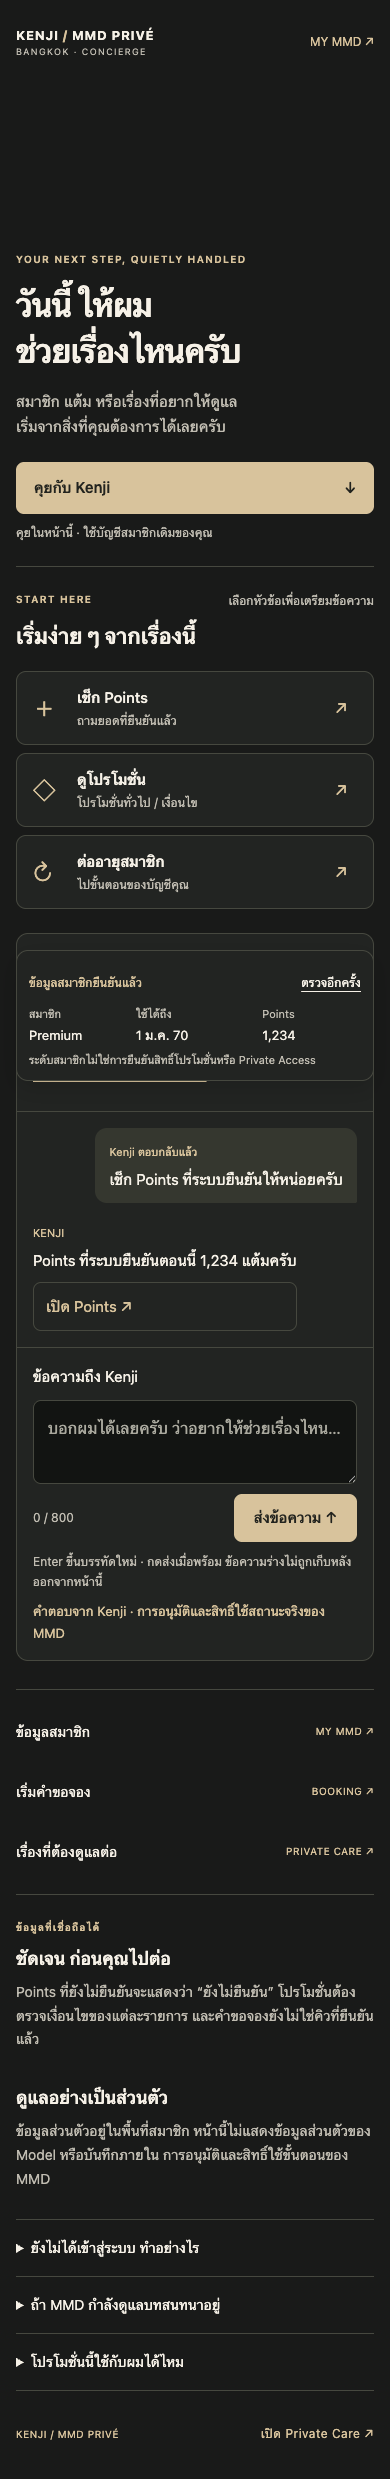
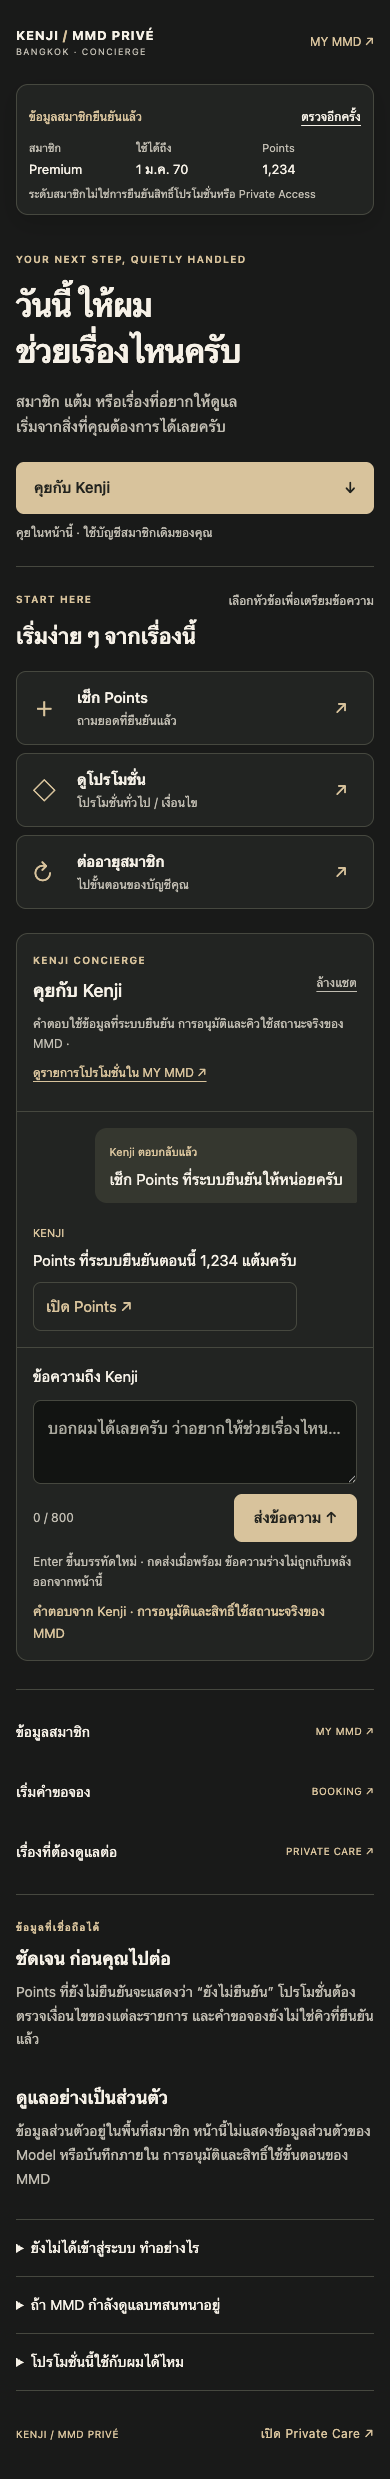
test(kenji): capture sticky summary consistently in screenshots

diff --git a/webflow/concierge/kenji/qa/browser-qa.js b/webflow/concierge/kenji/qa/browser-qa.js
@@ -1,4 +1,5 @@
 async (page) => {
+  const capture=async options=>{await page.evaluate(()=>window.scrollTo(0,0));await page.screenshot(options)};
   const checks=[];const check=(value,label)=>{if(!value)throw new Error(label);checks.push(label)};
   const profileBody={ok:true,membership:{status:'active',level:'Premium',activeThrough:'2027-01-01'},points:{confirmedBalance:1234}};
   let profile={status:200,body:profileBody},chat={status:200,body:{ok:true,reply:'Points ที่ระบบยืนยันตอนนี้ 1,234 แต้มครับ',intent:'points_status',action:{label:'เปิด Points',url:'/my-mmd/points'}}},posts=[];
@@ -13,7 +14,7 @@ async (page) => {
     check(await input.evaluate(el=>getComputedStyle(el).fontSize)==='16px',`16px input at ${width}`);
     const targets=await root.locator('button,a,summary').evaluateAll(nodes=>nodes.filter(el=>el.getBoundingClientRect().width>0&&!el.classList.contains('kj3-skip')).map(el=>el.getBoundingClientRect().height));check(targets.every(h=>h>=44),`44px targets at ${width}`);
     if(width===1440)await root.locator('.kj3-portrait').waitFor();
-    await page.screenshot({path:`output/playwright/kenji-${width}.png`,fullPage:true});
+    await capture({path:`output/playwright/kenji-${width}.png`,fullPage:true});
   }
   await page.setViewportSize({width:390,height:844});await page.goto('http://127.0.0.1:8765/concierge/kenji?t=QA_ONLY');await ready();
   await page.getByRole('button',{name:'ดูโปรโมชั่น โปรโมชั่นทั่วไป / เงื่อนไข'}).click();check((await input.inputValue()).includes('โปรโมชั่นทั่วไปที่ระบบยืนยันแล้ว'),'confirmed general promo prompt only');
@@ -24,23 +25,23 @@ async (page) => {
   check(posts.length===1,'duplicate clicks send exactly once');check(Object.keys(posts[0]).join(',')==='message','request is existing message contract only');
   check((await root.locator('[data-kj3-messages]').textContent()).includes('1,234'),'actual mock reply rendered');check((await input.inputValue())==='','success clears submitted input');
   check((await root.locator('.kj3-message a').getAttribute('href'))==='/my-mmd/points','backend action preserved');
-  await page.screenshot({path:'output/playwright/kenji-chat-390.png',fullPage:true});
+  await capture({path:'output/playwright/kenji-chat-390.png',fullPage:true});
   await input.fill('อยากคุยต่อครับ');await input.press('Enter');check(posts.length===1,'Enter adds newline, no implicit send');
   await input.press('Tab');check((await page.evaluate(()=>document.activeElement.textContent)).includes('ส่งข้อความ'),'keyboard reaches send');
   chat={status:503,body:{ok:false}};await send.click();await page.waitForFunction(()=>!document.querySelector('[data-kj3-send]').disabled);check((await input.inputValue()).includes('คุยต่อ'),'failed response retains draft');check((await feedback.textContent()).includes('ยังรับคำตอบไม่ได้'),'503 honest error');
   chat={status:200,raw:'not json'};await send.click();await page.waitForFunction(()=>!document.querySelector('[data-kj3-send]').disabled);check((await feedback.textContent()).includes('ยังรับคำตอบไม่ได้'),'malformed reply never success');
   chat={abort:true};await send.click();await page.waitForFunction(()=>!document.querySelector('[data-kj3-send]').disabled);check((await feedback.textContent()).includes('ยังไม่ยืนยันการรับ'),'network error no sent claim');
-  await page.screenshot({path:'output/playwright/kenji-chat-error.png',fullPage:true});
+  await capture({path:'output/playwright/kenji-chat-error.png',fullPage:true});
   chat={status:409,body:{ok:false,error:'conflict'}};await send.click();await page.waitForFunction(()=>!document.querySelector('[data-kj3-send]').disabled);check((await feedback.textContent()).includes('รายการซ้ำ'),'409 no automatic retry');
   chat={status:423,body:{ok:false,error:'owner_takeover'}};await send.click();await page.waitForFunction(()=>document.querySelector('[data-kj3-chat-status]').textContent.includes('MMD กำลังดูแล'));
   check(await send.isDisabled(),'server takeover stops sends');const count=posts.length;await root.locator('[data-kj3-form]').evaluate(form=>form.requestSubmit());check(posts.length===count,'takeover cannot be bypassed by form submit');
-  await page.screenshot({path:'output/playwright/kenji-takeover.png',fullPage:true});
+  await capture({path:'output/playwright/kenji-takeover.png',fullPage:true});
   await page.reload();await ready();chat={status:401,body:{ok:false,error:'member_session_required'}};await input.fill('QA session expiry');await send.click();await page.waitForFunction(()=>document.querySelector('#kenji-concierge-v3').dataset.memberMode==='guest');
   check(await send.isDisabled(),'expired session blocks sends');check((await input.inputValue())==='','expiry clears private draft');check((await root.locator('[data-kj3-messages]').textContent()).includes('ยังไม่มีบทสนทนา'),'expiry clears transcript');check((await root.locator('[data-kj3-points]').textContent())==='ยังไม่ยืนยัน','expiry clears balance');
   check((await root.locator('[data-kj3-login]').getAttribute('href'))==='/member/my-mmd?t=QA_ONLY','existing verification token handoff');
   for(const [mode,status,body] of [['guest',401,{ok:false}],['error',503,{ok:false}],['pending',200,{ok:true,membership:{status:'active',access:'pending'}}],['blocked',200,{ok:true,membership:{status:'active',access:'blocked'}}],['expired',200,{ok:true,membership:{status:'expired',activeThrough:'2026-01-01'}}],['unknown',200,{ok:true}],['active',200,{ok:true,membership:{status:'active'},points:{confirmedBalance:null}}]]){
     profile={status,body};await root.locator('[data-kj3-retry]').click();await page.waitForFunction(mode=>document.querySelector('#kenji-concierge-v3').dataset.memberMode===mode,mode);
-    check((await root.locator('[data-kj3-points]').textContent())==='ยังไม่ยืนยัน',`${mode} unknown points`);await page.screenshot({path:`output/playwright/kenji-state-${mode}.png`,fullPage:true});
+    check((await root.locator('[data-kj3-points]').textContent())==='ยังไม่ยืนยัน',`${mode} unknown points`);await capture({path:`output/playwright/kenji-state-${mode}.png`,fullPage:true});
   }
   chat={status:200,body:{ok:true,reply:'Points 0 แต้ม',intent:'points_status'}};await input.fill('เช็ก Points');await send.click();await page.waitForFunction(()=>!document.querySelector('[data-kj3-send]').disabled);check((await root.locator('.kj3-message[data-role=kenji]').last().textContent()).includes('ยังยืนยันยอด Points ไม่ได้'),'unknown points cannot become a zero in reply');
   profile={status:200,delay:300,body:{ok:true,membership:{status:'active'},points:{confirmedBalance:0}}};await root.locator('[data-kj3-retry]').click();check(await root.locator('[data-kj3-status-card]').getAttribute('aria-busy')==='true','loading busy state');check((await root.locator('[data-kj3-points]').textContent())==='ยังไม่ยืนยัน','loading clears prior balance');await ready();check((await root.locator('[data-kj3-points]').textContent())==='0','verified zero is zero');
